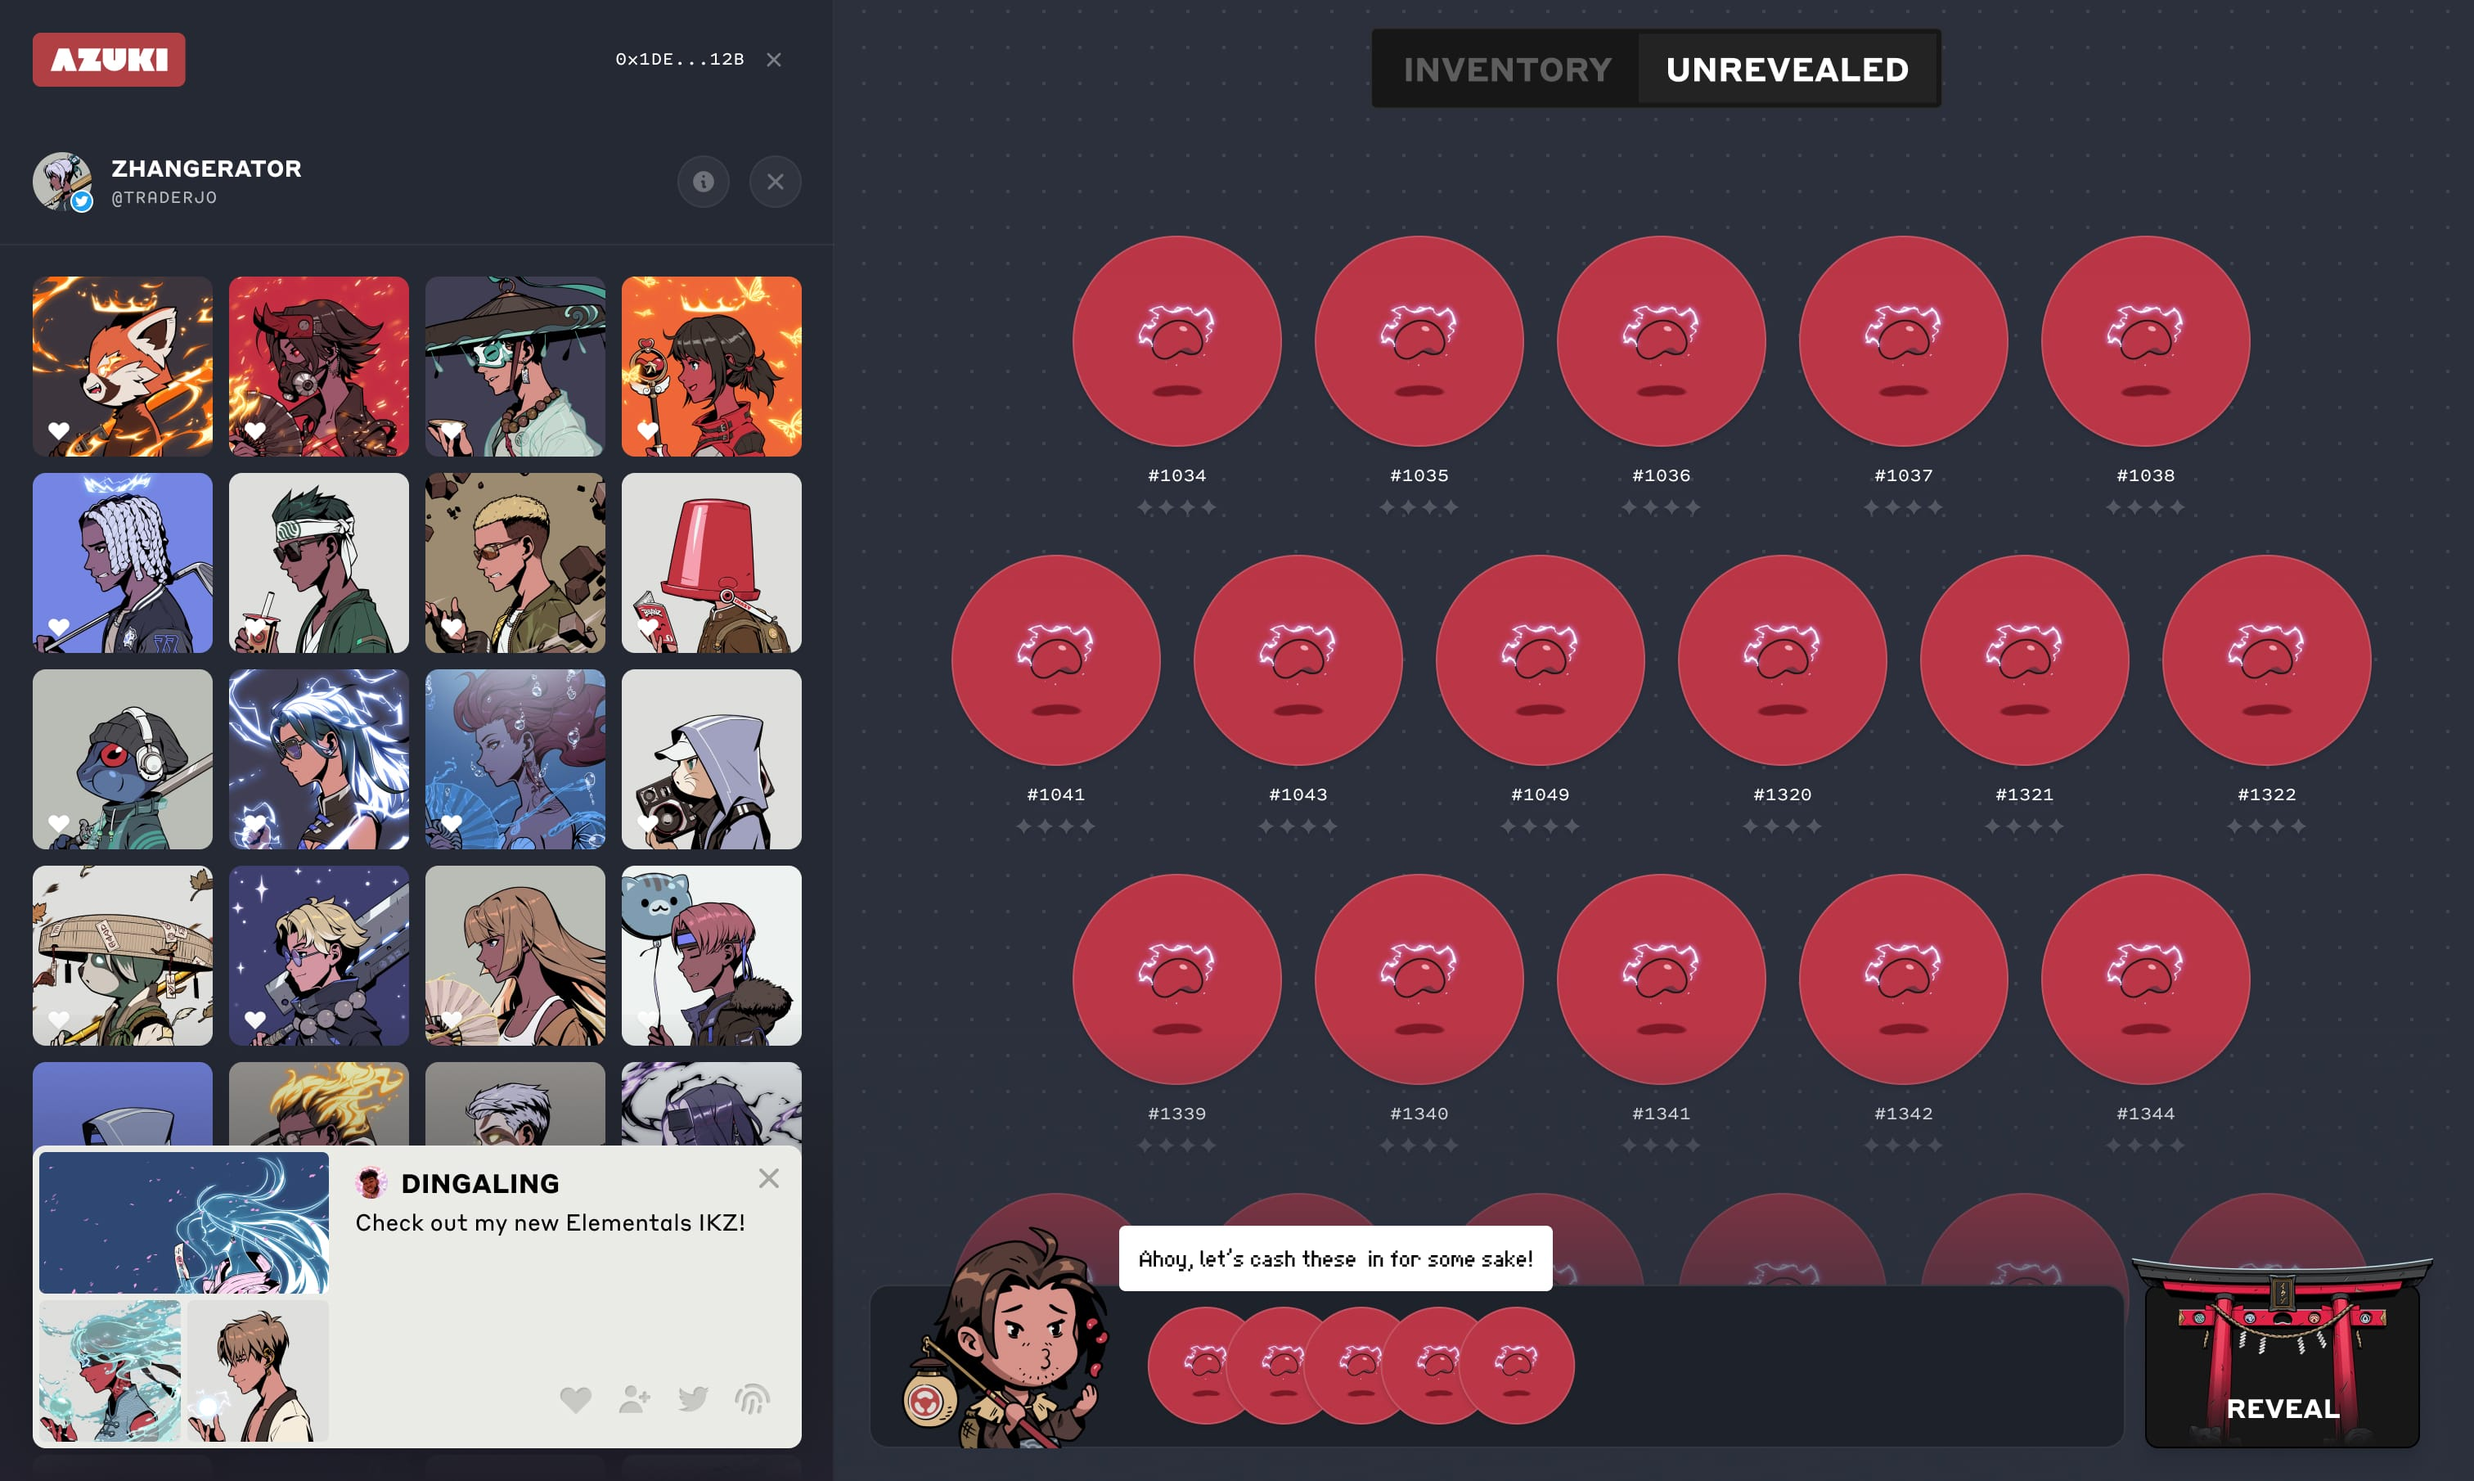
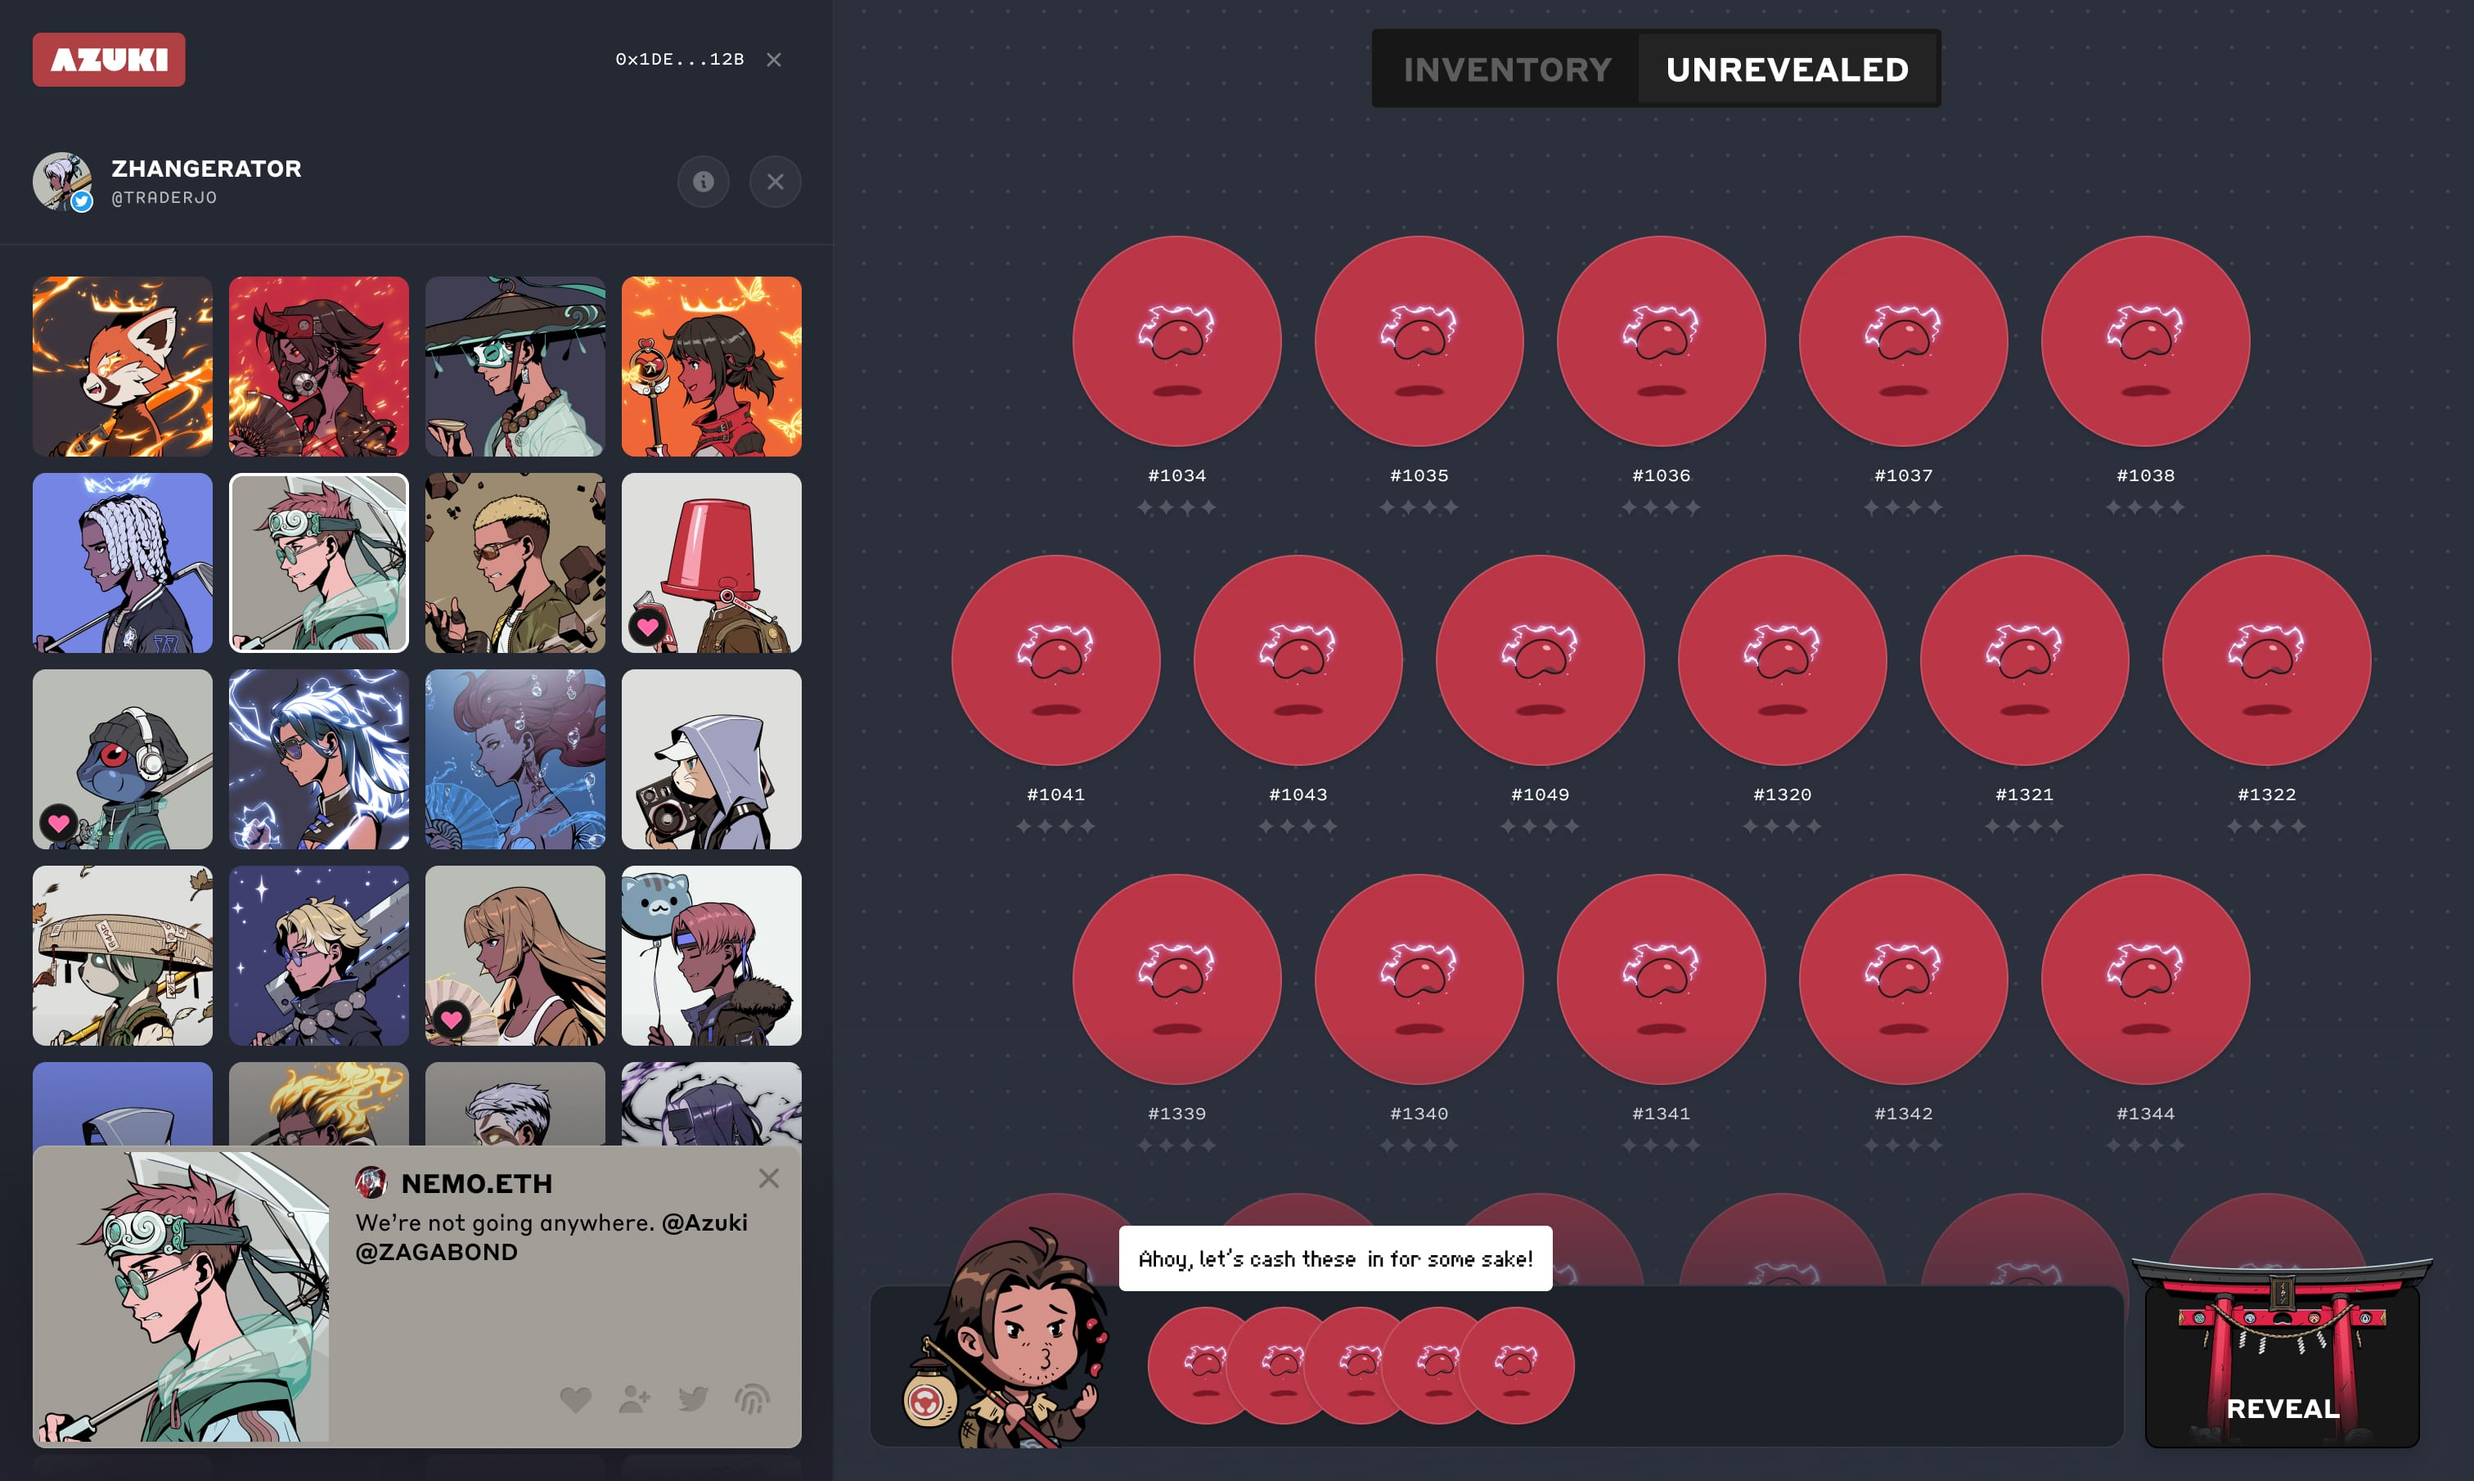
update graphics

diff --git a/pages/azuki.js b/pages/azuki.js
@@ -27,8 +27,8 @@ import rabbitTicket from "../public/work/azuki/rabbit-ticket.jpg";
 import s2_mint from "../public/work/azuki/s2-mint.jpg"; 
 import s2_mint_closeup from "../public/work/azuki/s2-mint-closeup.jpg"; 
 import s2_reveal from "../public/work/azuki/s2-reveal.jpg"; 
-import s2_reveal_closeup from "../public/work/azuki/s2-reveal-closeup.jpg"; 
-import s2_reveal_closeup_2 from "../public/work/azuki/s2-reveal-closeup-2.jpg"; 
+import s2_reveal_likeall from "../public/work/azuki/s2-reveal-likeall.jpg"; 
+import s2_reveal_tweet from "../public/work/azuki/s2-reveal-tweet.jpg"; 
 
 const item = {
   hidden: { opacity: 0 },
@@ -84,11 +84,11 @@ export default function Brain() {
         </LinkCard>
         <Divider />
         <Spacer></Spacer>
-        <ProjectBody title="Elementals Sale Experience" col={1}></ProjectBody>
-          <ProjectMedia pAll src={"/work/azuki/s2-reveal-animation.mp4"} isVideo></ProjectMedia>
+        <ProjectBody title="Elementals Sale + Unboxing" col={1}></ProjectBody>
           <ProjectMedia pAll src={s2_reveal}></ProjectMedia>
-          <ProjectMedia pAll src={s2_reveal_closeup_2}></ProjectMedia>
-          <ProjectMedia pl pt src={s2_reveal_closeup}></ProjectMedia>
+          <ProjectMedia pl pt src={s2_reveal_tweet}></ProjectMedia>
+          <ProjectMedia pl pb src={s2_reveal_likeall}></ProjectMedia>
+          <ProjectMedia pAll src={"/work/azuki/s2-reveal-animation.mp4"} isVideo></ProjectMedia>
           <ProjectMedia pAll src={s2_mint}></ProjectMedia>
           <ProjectMedia pr pb src={s2_mint_closeup}></ProjectMedia>
         <Spacer></Spacer>
